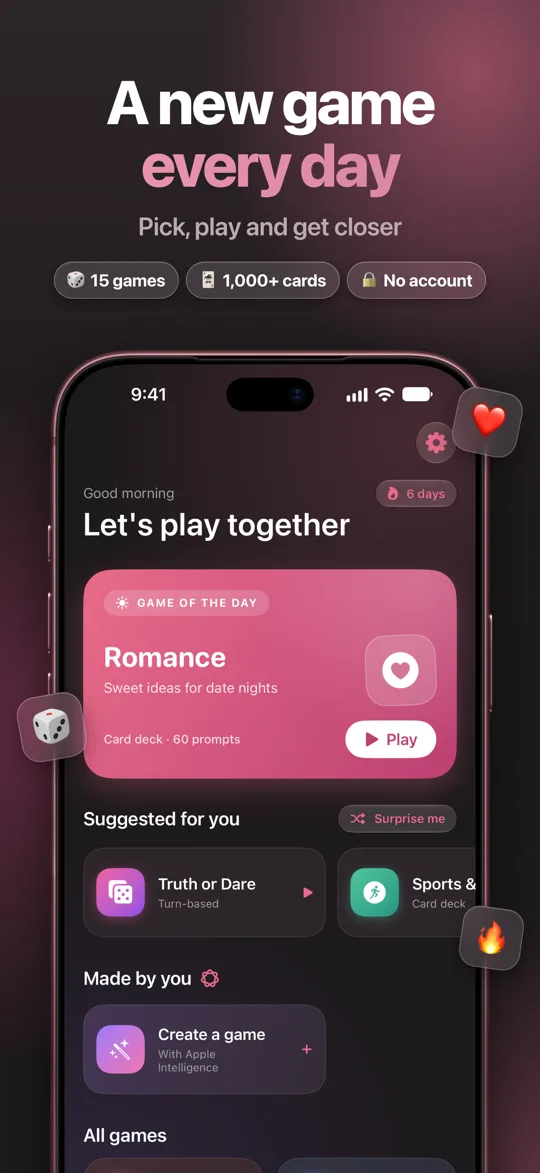
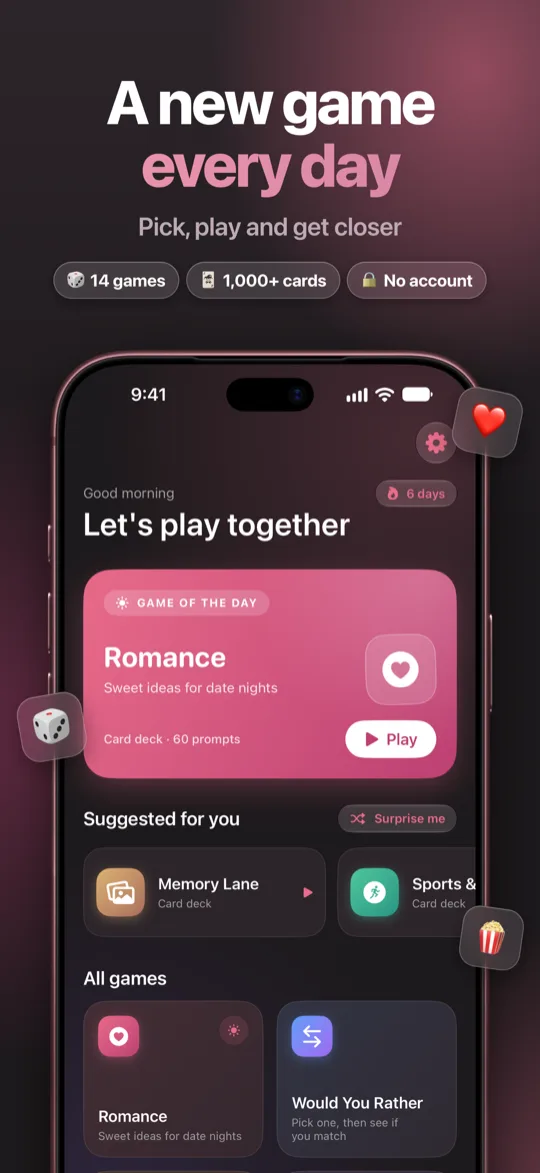
update Teso page

diff --git a/apps/teso/privacy.html b/apps/teso/privacy.html
@@ -4,20 +4,20 @@
   <meta charset="UTF-8" />
   <meta name="viewport" content="width=device-width, initial-scale=1.0" />
   <title>Privacy Policy — Teso: Couples Games</title>
-  <meta name="description" content="Teso: Couples Games Privacy Policy. No account, no ads, no analytics, and on-device Apple Intelligence." />
+  <meta name="description" content="Teso: Couples Games Privacy Policy. No account, no ads and no analytics." />
   <link rel="canonical" href="https://kreatimont.com/apps/teso/privacy.html" />
   <!-- Open Graph -->
   <meta property="og:type" content="website" />
   <meta property="og:site_name" content="Alexandr Nadtoka" />
   <meta property="og:title" content="Privacy Policy — Teso: Couples Games" />
-  <meta property="og:description" content="Teso: Couples Games Privacy Policy. No account, no ads, no analytics, and on-device Apple Intelligence." />
+  <meta property="og:description" content="Teso: Couples Games Privacy Policy. No account, no ads and no analytics." />
   <meta property="og:url" content="https://kreatimont.com/apps/teso/privacy.html" />
   <meta property="og:image" content="https://kreatimont.com/assets/images/apps/teso-og.jpg?v=2" />
   <meta property="og:locale" content="en_US" />
   <!-- Twitter Card -->
   <meta name="twitter:card" content="summary_large_image" />
   <meta name="twitter:title" content="Privacy Policy — Teso: Couples Games" />
-  <meta name="twitter:description" content="Teso: Couples Games Privacy Policy. No account, no ads, no analytics, and on-device Apple Intelligence." />
+  <meta name="twitter:description" content="Teso: Couples Games Privacy Policy. No account, no ads and no analytics." />
   <meta name="twitter:image" content="https://kreatimont.com/assets/images/apps/teso-og.jpg?v=2" />
   <link rel="icon" type="image/png" href="/assets/images/favicon.png" />
   <link rel="icon" type="image/png" sizes="16x16" href="/assets/images/favicon-16.png" />
@@ -120,7 +120,7 @@
       <h1 class="section-title">Privacy Policy</h1>
       <p class="text-secondary" style="margin-bottom: 8px;">Applies to: <strong>Teso: Couples Games</strong></p>
 
-      <div class="legal-meta">Effective Date: November 3, 2026 &nbsp;&middot;&nbsp; Developer: Alexandr Nadtoka</div>
+      <div class="legal-meta">Effective Date: November 5, 2026 &nbsp;&middot;&nbsp; Developer: Alexandr Nadtoka</div>
       <div class="legal-content">
 
         <p>Teso: Couples Games ("the App") is a collection of games that couples play together on one phone. The App has no accounts and no backend of its own. This policy explains what stays on your device, the limited data used to handle subscriptions, and the choices you have.</p>
@@ -128,25 +128,20 @@
         <h2>1. The Short Version</h2>
         <ul>
           <li>You don't need an account, and we don't ask for your name or email address to use the App.</li>
-          <li>Your play history and the games you create are stored on your device. We can't see them.</li>
-          <li>Game Studio uses Apple Intelligence on your device. Your themes and generated games are not sent to us, OpenAI or any cloud AI service.</li>
+          <li>Your play history is stored on your device. We can't see it.</li>
           <li>The App has no ads, no analytics and no cross-app tracking.</li>
-          <li>The App uses RevenueCat to manage subscriptions, as described in Section 4.</li>
+          <li>The App uses RevenueCat to manage subscriptions, as described in Section 3.</li>
         </ul>
 
         <h2>2. Data Stored on Your Device</h2>
         <p>The App keeps the following data locally on your device:</p>
         <ul>
           <li><strong>Play history:</strong> the days you played and your most recently played games, which are used for features such as your streak and suggestions.</li>
-          <li><strong>Games you create:</strong> the games generated in Game Studio, including their theme, and any settings saved with them.</li>
           <li><strong>App state:</strong> whether you have completed onboarding and a cached copy of your premium status.</li>
         </ul>
         <p>We have no access to this data. It may be included in your device's iCloud or computer backups, depending on your device settings. Those backups are governed by your settings and, for iCloud, by Apple's terms.</p>
 
-        <h2>3. Game Studio and Apple Intelligence</h2>
-        <p>Game Studio creates games using Apple's on-device language model through the Foundation Models framework. The theme you enter and the game that is generated are processed on your device. The App does not send them to us or to any third-party AI service. Game Studio requires a device that supports Apple Intelligence, with Apple Intelligence turned on.</p>
-
-        <h2>4. Subscriptions and Third-Party Services</h2>
+        <h2>3. Subscriptions and Third-Party Services</h2>
         <p>The games themselves work without an internet connection. The App connects to the services below to offer, verify and restore subscriptions. These checks can happen when you open the App, even if you haven't subscribed.</p>
 
         <table>
@@ -169,31 +164,30 @@
 
         <p>We do not link your subscription information to your name or email address. We do <strong>not</strong> sell your personal information or use it for advertising.</p>
 
-        <h2>5. Contacting Support</h2>
+        <h2>4. Contacting Support</h2>
         <p>If you email us, we receive your email address and whatever you include in your message. When you start an email from the App's settings, the draft includes your app version, iOS version and device type to help us diagnose problems. You can review or remove these details before sending. We use this information only to respond to you and keep it only as long as needed for that purpose and our records.</p>
 
-        <h2>6. Data Retention and Deletion</h2>
+        <h2>5. Data Retention and Deletion</h2>
         <ul>
-          <li><strong>Games you create:</strong> you can delete them individually in the App.</li>
           <li><strong>All data on your device:</strong> deleting the App removes its local data from your device. Copies in existing device backups are handled according to your backup settings.</li>
           <li><strong>Subscription records:</strong> RevenueCat and Apple keep these according to their own policies and legal obligations. To request deletion of RevenueCat records linked to your purchase, contact us and include your purchase details so we can try to find them, since the App has no account to look up.</li>
           <li><strong>Subscriptions:</strong> deleting the App does not cancel a subscription. You can cancel in your App Store account settings.</li>
         </ul>
 
-        <h2>7. Earlier Versions of Teso</h2>
+        <h2>6. Earlier Versions of Teso</h2>
         <p>Earlier versions of the App offered account-based features, including partner sync and AI conflict analysis, that relied on cloud services. The current version does not use those accounts or features. If you had an account and would like your data deleted, email <a href="mailto:nadtoka.o.work@gmail.com">nadtoka.o.work@gmail.com</a> from the address you used for that account, or tell us the name and email shown on it.</p>
 
-        <h2>8. Age Requirement</h2>
-        <p>The App is intended for adults aged 18 and over, as it includes spicy content. We do not knowingly collect personal information from children. If you believe a child has provided us with personal data, please contact us.</p>
+        <h2>7. Age Requirement</h2>
+        <p>The App is intended for adults aged 18 and over. We do not knowingly collect personal information from children. If you believe a child has provided us with personal data, please contact us.</p>
 
-        <h2>9. Your Rights</h2>
+        <h2>8. Your Rights</h2>
         <p>Depending on where you live, you may have the right to access, correct, delete or receive a copy of your personal data, and to restrict or object to its processing. To exercise these rights, contact us at <a href="mailto:nadtoka.o.work@gmail.com">nadtoka.o.work@gmail.com</a>. We will respond within 30 days. You also have the right to lodge a complaint with your local data protection authority.</p>
         <p>If you are in the European Economic Area or the UK, our legal bases are performance of a contract (providing and verifying your subscription), and legitimate interests (responding to support requests and keeping the App working reliably). RevenueCat is based in the United States, so subscription data may be processed there under the safeguards described in its policy.</p>
 
-        <h2>10. Changes to This Policy</h2>
+        <h2>9. Changes to This Policy</h2>
         <p>We may update this policy from time to time and will post any changes here with a revised effective date. If a change materially affects how your data is handled, we will also notify you in the App.</p>
 
-        <h2>11. Contact</h2>
+        <h2>10. Contact</h2>
         <p><strong>Alexandr Nadtoka</strong><br />
         Email: <a href="mailto:nadtoka.o.work@gmail.com">nadtoka.o.work@gmail.com</a></p>
 

diff --git a/apps/teso/index.html b/apps/teso/index.html
@@ -5,20 +5,20 @@
   <meta name="viewport" content="width=device-width, initial-scale=1.0" />
   <meta name="google-site-verification" content="t3-AqlTqDRcHq2MUG2enTcRq7DvUElatIfnwFEVE6UM" />
   <title>Teso: Couples Games — Date Night Fun for Two</title>
-  <meta name="description" content="15 games and 1,000+ cards for couples, from sweet to spicy. Create your own with on-device Apple Intelligence. No account, and your games stay on your iPhone." />
+  <meta name="description" content="14 games and 1,000+ cards for couples, for every mood. No account, and your play history stays on your iPhone." />
   <link rel="canonical" href="https://kreatimont.com/apps/teso/" />
   <!-- Open Graph -->
   <meta property="og:type" content="website" />
   <meta property="og:site_name" content="Alexandr Nadtoka" />
   <meta property="og:title" content="Teso: Couples Games — Date Night Fun for Two" />
-  <meta property="og:description" content="15 games and 1,000+ cards for couples, from sweet to spicy. Create your own with on-device Apple Intelligence. No account, and your games stay on your iPhone." />
+  <meta property="og:description" content="14 games and 1,000+ cards for couples, for every mood. No account, and your play history stays on your iPhone." />
   <meta property="og:url" content="https://kreatimont.com/apps/teso/" />
   <meta property="og:image" content="https://kreatimont.com/assets/images/apps/teso-og.jpg?v=2" />
   <meta property="og:locale" content="en_US" />
   <!-- Twitter Card -->
   <meta name="twitter:card" content="summary_large_image" />
   <meta name="twitter:title" content="Teso: Couples Games — Date Night Fun for Two" />
-  <meta name="twitter:description" content="15 games and 1,000+ cards for couples, from sweet to spicy. Create your own with on-device Apple Intelligence. No account, and your games stay on your iPhone." />
+  <meta name="twitter:description" content="14 games and 1,000+ cards for couples, for every mood. No account, and your play history stays on your iPhone." />
   <meta name="twitter:image" content="https://kreatimont.com/assets/images/apps/teso-og.jpg?v=2" />
   <link rel="icon" type="image/png" href="/assets/images/favicon.png" />
   <link rel="icon" type="image/png" sizes="16x16" href="/assets/images/favicon-16.png" />
@@ -98,7 +98,7 @@
         </div>
         <div class="app-hero-meta">
           <h1>Teso: Couples Games</h1>
-          <p class="app-hero-subtitle">Date night fun for two. Private games from sweet to spicy, with no account needed.</p>
+          <p class="app-hero-subtitle">Date night fun for two. Private games for every mood, with no account needed.</p>
           <div class="app-badges">
             <a href="https://apps.apple.com/app/id6758556545" target="_blank" rel="noopener">
               <img src="/assets/images/badges/app-store-en.svg" alt="Download on the App Store" height="48" />
@@ -126,7 +126,7 @@
         Teso is a collection of games for couples. Open the app, pick a game and play together on one phone: on the couch, on a date or on a long drive.
       </p>
       <p style="color: var(--text-secondary); font-size: 1.05rem; line-height: 1.75; max-width: 620px; margin-top: 16px;">
-        Keep it light and silly on a lazy evening, ask deeper questions when you want to feel closer, or open a spicy deck when you want to turn up the heat.
+        Keep it light and silly on a lazy evening, ask deeper questions when you want to feel closer, or pick a fresh date idea when you want to do something new.
       </p>
     </div>
   </section>
@@ -135,7 +135,7 @@
   <section>
     <div class="container">
       <p class="section-label">Features</p>
-      <h2 class="section-title">15 games, 1,000+ cards</h2>
+      <h2 class="section-title">14 games, 1,000+ cards</h2>
       <p class="section-subtitle">Everything you need for a night in, with no sign-up first.</p>
 
       <div class="features-grid">
@@ -151,23 +151,23 @@
         </div>
         <div class="feature-card">
           <div class="feature-icon">🃏</div>
-          <p class="feature-title">11 Swipe Decks</p>
+          <p class="feature-title">10 Swipe Decks</p>
           <p class="feature-desc">Swipe right on the ideas you both love and get a list of matches. Decks include Romance, Date Ideas, Deep Talk, Memory Lane and Travel &amp; Countries.</p>
         </div>
         <div class="feature-card">
-          <div class="feature-icon">🔥</div>
-          <p class="feature-title">From Sweet to Spicy</p>
-          <p class="feature-desc">Choose the mood that suits your evening, from playful and cozy up to the Spicy and Extra Spicy decks.</p>
+          <div class="feature-icon">🌙</div>
+          <p class="feature-title">For Every Mood</p>
+          <p class="feature-desc">Choose what suits your evening, from silly and playful to slow, cozy and deep.</p>
         </div>
         <div class="feature-card">
           <div class="feature-icon">✨</div>
-          <p class="feature-title">Game Studio</p>
-          <p class="feature-desc">Choose a game type, a mood and a theme, and Apple Intelligence writes a new game right on your iPhone. Your creations are saved in "Made by you".</p>
+          <p class="feature-title">Suggested for You</p>
+          <p class="feature-desc">Get new suggestions every day, tap Surprise Me when you can't choose, and keep a streak going on the days you play.</p>
         </div>
         <div class="feature-card">
           <div class="feature-icon">🔒</div>
           <p class="feature-title">Private by Design</p>
-          <p class="feature-desc">No accounts and no sign-up. Your games and play history stay on your phone, and you can play offline.</p>
+          <p class="feature-desc">No accounts and no sign-up. Your play history stays on your phone, and you can play offline.</p>
         </div>
       </div>
     </div>
@@ -181,7 +181,7 @@
       <div class="screenshots-row">
         <img src="/assets/images/apps/teso-screen-1.webp" alt="Teso home screen with the Game of the Day and suggested games" width="540" height="1173" loading="lazy" decoding="async" class="screenshot" />
         <img src="/assets/images/apps/teso-screen-2.webp" alt="A Date Ideas swipe deck card in Teso" width="540" height="1173" loading="lazy" decoding="async" class="screenshot" />
-        <img src="/assets/images/apps/teso-screen-3.webp" alt="Game Studio mood picker for creating a game with Apple Intelligence" width="540" height="1173" loading="lazy" decoding="async" class="screenshot" />
+        <img src="/assets/images/apps/teso-screen-3.webp" alt="A match in Would You Rather, where both partners picked the same answer" width="540" height="1173" loading="lazy" decoding="async" class="screenshot" />
       </div>
     </div>
   </section>
@@ -191,7 +191,7 @@
     <div class="container">
       <p class="section-label">Teso Premium</p>
       <h2 class="section-title">Free to play every day</h2>
-      <p class="section-subtitle">The Game of the Day is always free. Teso Premium is an optional subscription that unlocks every game, every deck and Game Studio.</p>
+      <p class="section-subtitle">The Game of the Day is always free. Teso Premium is an optional subscription that unlocks every game and every deck.</p>
     </div>
   </section>
 
@@ -203,7 +203,6 @@
       <div class="tech-list">
         <span class="tech-pill">Swift</span>
         <span class="tech-pill">SwiftUI</span>
-        <span class="tech-pill">Foundation Models</span>
         <span class="tech-pill">RevenueCat</span>
       </div>
     </div>
@@ -213,8 +212,8 @@
   <section>
     <div class="container">
       <p class="section-label">Privacy</p>
-      <h2 class="section-title">Your games stay on your phone</h2>
-      <p class="section-subtitle" style="margin-bottom: 24px;">No account, no ads and no analytics. Game Studio runs on your iPhone, so what you type is never sent to a cloud AI service.</p>
+      <h2 class="section-title">Your play history stays on your phone</h2>
+      <p class="section-subtitle" style="margin-bottom: 24px;">No account, no ads and no analytics. Every card comes with the app, so you can play offline.</p>
       <div style="display: flex; gap: 12px; flex-wrap: wrap;">
         <a href="privacy.html" class="btn btn-secondary">Privacy Policy</a>
       </div>

diff --git a/apps/teso/support.html b/apps/teso/support.html
@@ -61,15 +61,7 @@
         "name": "What's free, and what does Teso Premium include?",
         "acceptedAnswer": {
           "@type": "Answer",
-          "text": "The Game of the Day is free every day. Teso Premium is an optional subscription that unlocks every game, every deck and Game Studio."
-        }
-      },
-      {
-        "@type": "Question",
-        "name": "What do I need to use Game Studio?",
-        "acceptedAnswer": {
-          "@type": "Answer",
-          "text": "Game Studio needs Teso Premium and an iPhone that supports Apple Intelligence, with Apple Intelligence turned on in Settings. If it was just turned on, the model may need some time to finish downloading."
+          "text": "The Game of the Day is free every day. Teso Premium is an optional subscription that unlocks every game and every deck."
         }
       },
       {
@@ -85,7 +77,7 @@
         "name": "Is my data private?",
         "acceptedAnswer": {
           "@type": "Answer",
-          "text": "Yes. Your play history and the games you create stay on your device, and Game Studio runs on your iPhone rather than a cloud AI service. Teso has no ads or analytics. It uses RevenueCat only to manage subscriptions. See the Privacy Policy for full details."
+          "text": "Yes. Your play history stays on your device. Teso has no ads or analytics. It uses RevenueCat only to manage subscriptions. See the Privacy Policy for full details."
         }
       },
       {
@@ -93,7 +85,7 @@
         "name": "How do I restore my subscription on a new phone?",
         "acceptedAnswer": {
           "@type": "Answer",
-          "text": "Sign in with the same Apple ID and tap Restore Purchases in Teso's settings or paywall. Your play history and created games aren't synced by Teso, so they only move across if they're included in a device backup you restore."
+          "text": "Sign in with the same Apple ID and tap Restore Purchases in Teso's settings or paywall. Your play history isn't synced by Teso, so it only moves across if it's included in a device backup you restore."
         }
       },
       {
@@ -109,7 +101,7 @@
         "name": "How do I delete my data?",
         "acceptedAnswer": {
           "@type": "Answer",
-          "text": "There's no account to delete. You can delete games you created inside the app, and deleting Teso removes its local data from your iPhone."
+          "text": "There's no account to delete. Deleting Teso removes its local data from your iPhone."
         }
       },
       {
@@ -186,15 +178,7 @@
           <summary>What's free, and what does Teso Premium include?</summary>
           <p class="faq-body">
             The Game of the Day is free every day. Teso Premium is an optional subscription that unlocks
-            every game, every deck and Game Studio.
-          </p>
-        </details>
-
-        <details class="faq-item">
-          <summary>What do I need to use Game Studio?</summary>
-          <p class="faq-body">
-            Game Studio needs Teso Premium and an iPhone that supports Apple Intelligence, with Apple Intelligence
-            turned on in Settings. If it was just turned on, the model may need some time to finish downloading.
+            every game and every deck.
           </p>
         </details>
 
@@ -208,8 +192,7 @@
         <details class="faq-item">
           <summary>Is my data private?</summary>
           <p class="faq-body">
-            Yes. Your play history and the games you create stay on your device, and Game Studio runs on your
-            iPhone rather than a cloud AI service. Teso has no ads or analytics. It uses RevenueCat only to
+            Yes. Your play history stays on your device. Teso has no ads or analytics. It uses RevenueCat only to
             manage subscriptions. See the <a href="privacy.html">Privacy Policy</a> for full details.
           </p>
         </details>
@@ -218,7 +201,7 @@
           <summary>How do I restore my subscription on a new phone?</summary>
           <p class="faq-body">
             Sign in with the same Apple ID and tap <strong>Restore Purchases</strong> in Teso's settings or paywall.
-            Your play history and created games aren't synced by Teso, so they only move across if they're included
+            Your play history isn't synced by Teso, so it only moves across if it's included
             in a device backup you restore.
           </p>
         </details>
@@ -236,8 +219,7 @@
         <details class="faq-item">
           <summary>How do I delete my data?</summary>
           <p class="faq-body">
-            There's no account to delete. You can delete games you created inside the app, and deleting Teso
-            removes its local data from your iPhone.
+            There's no account to delete. Deleting Teso removes its local data from your iPhone.
           </p>
         </details>
 

diff --git a/ru/index.html b/ru/index.html
@@ -223,7 +223,7 @@
           </div>
           <div>
             <p class="app-card-name">Teso: Couples Games</p>
-            <p class="app-card-tagline">Приватные игры для двоих, от милых до пикантных. Без аккаунта, ваши игры остаются на телефоне.</p>
+            <p class="app-card-tagline">Приватные игры для двоих на любое настроение. Без аккаунта, история игр остаётся на телефоне.</p>
           </div>
           <div class="app-card-tags">
             <span class="tag">Образ жизни</span>

diff --git a/index.html b/index.html
@@ -244,7 +244,7 @@
           </div>
           <div>
             <p class="app-card-name">Teso: Couples Games</p>
-            <p class="app-card-tagline">Private games for two, from sweet to spicy. No account needed, and your games stay on your phone.</p>
+            <p class="app-card-tagline">Private games for two, for every mood. No account needed, and your play history stays on your phone.</p>
           </div>
           <div class="app-card-tags">
             <span class="tag">Lifestyle</span>
